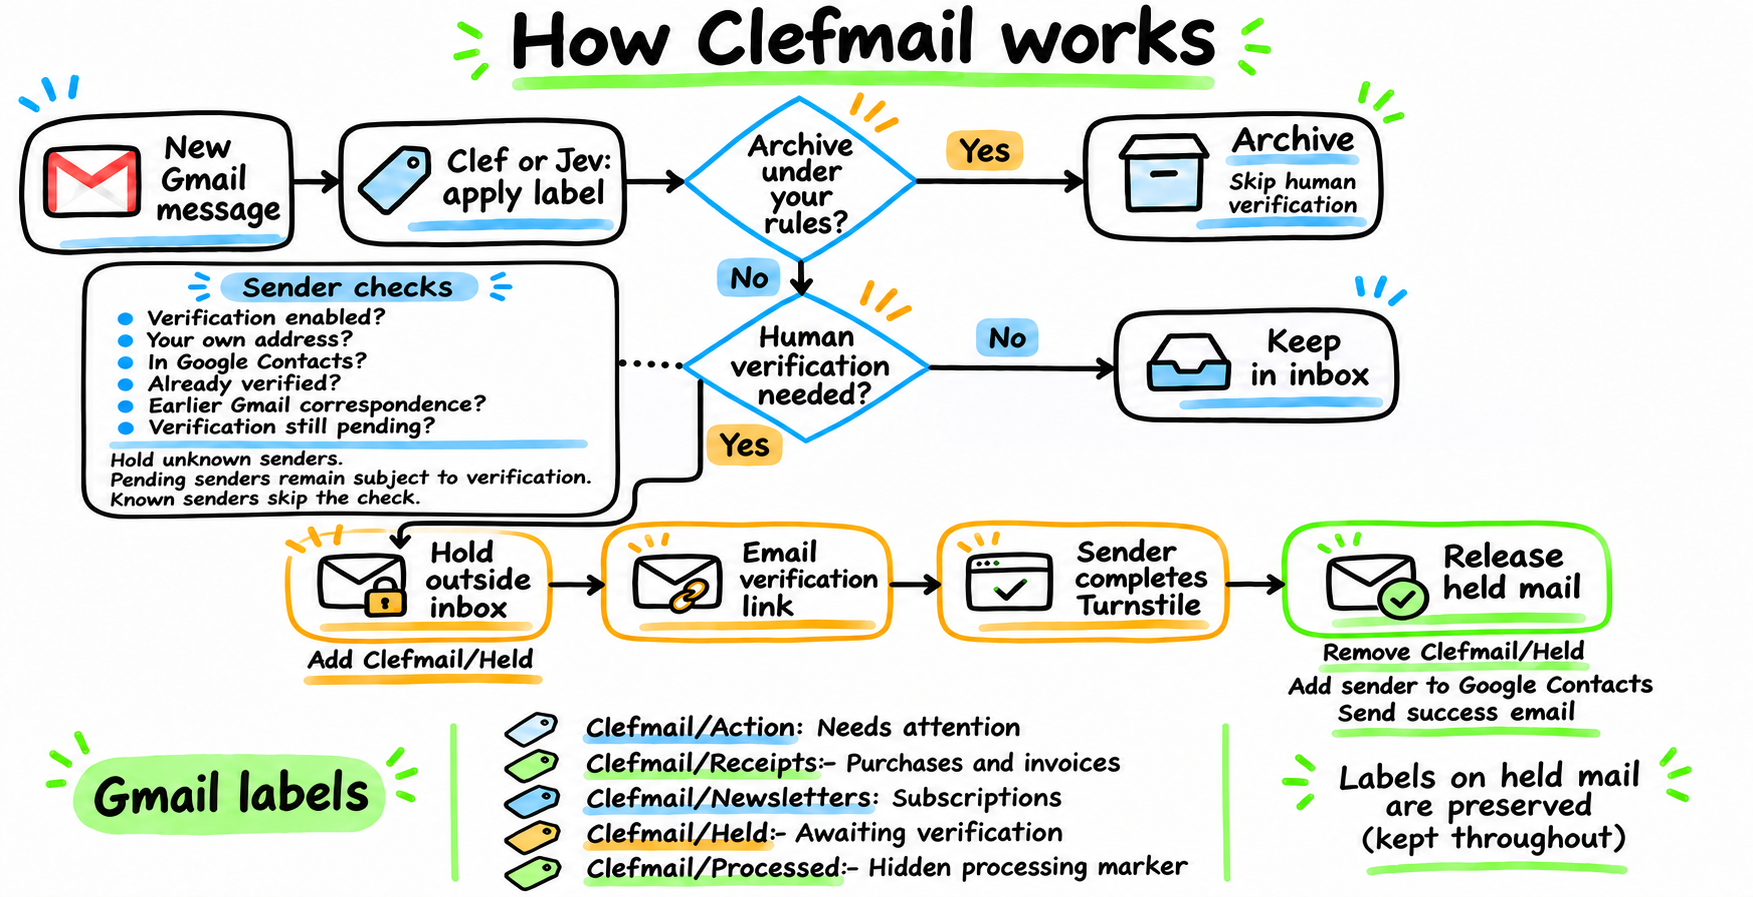
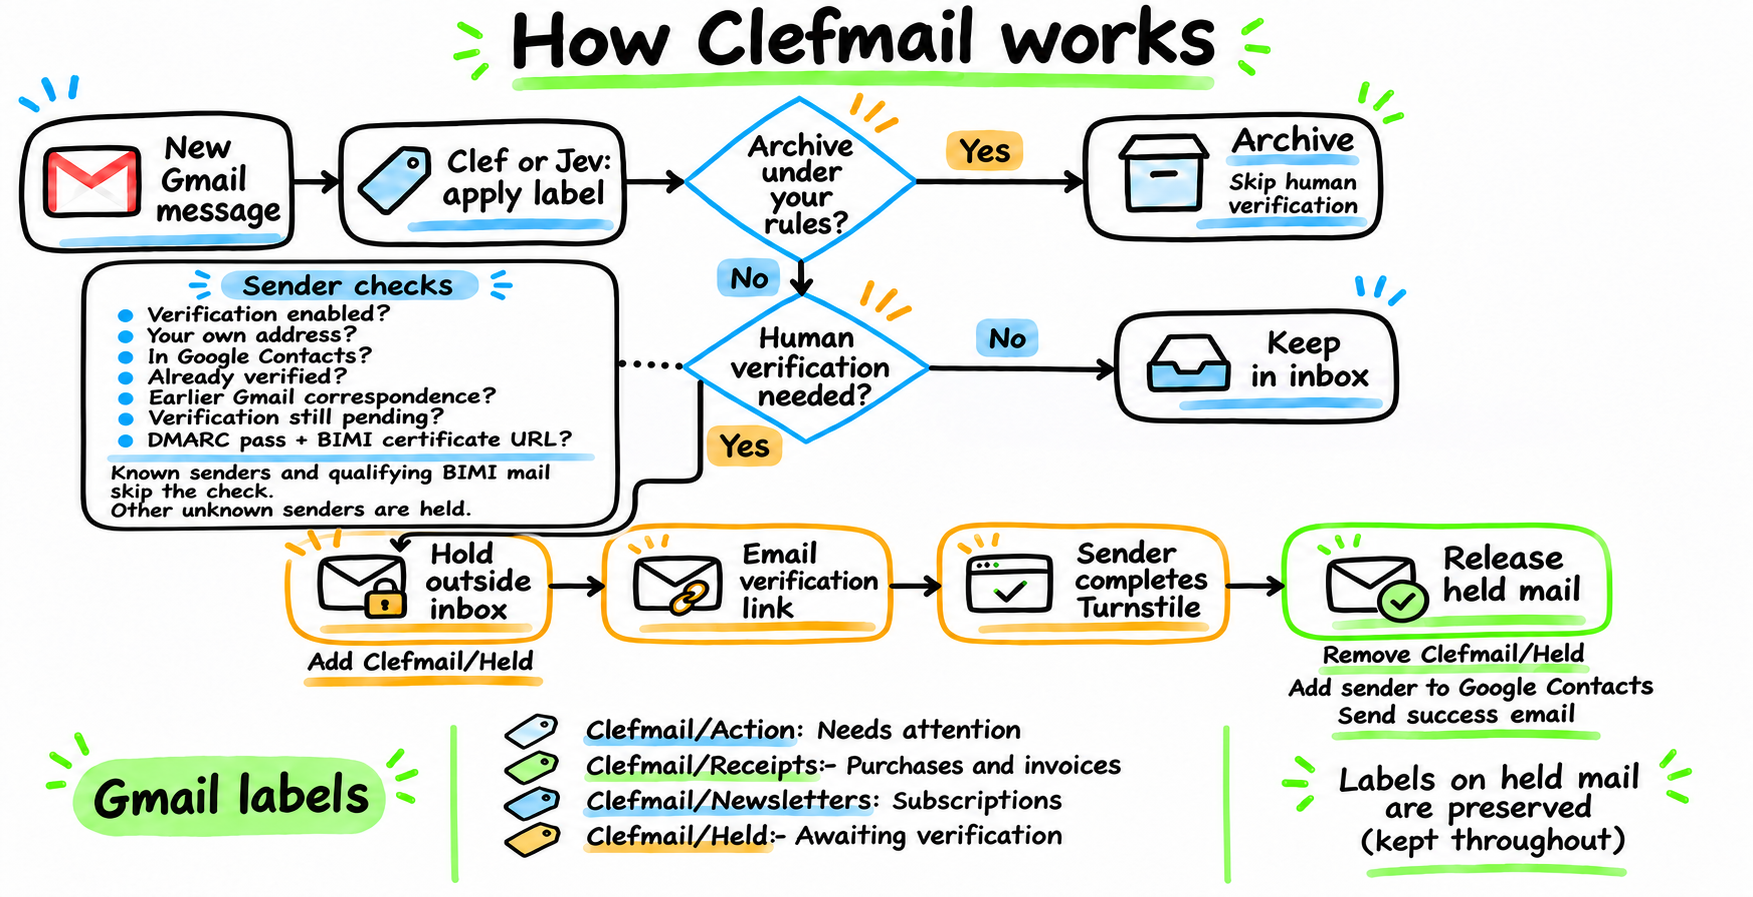
Track processed messages privately instead of using a Gmail label

diff --git a/tests/processor.test.ts b/tests/processor.test.ts
@@ -21,7 +21,7 @@ test("notification processes added IDs, labels + archives once, then checkpoints
   const f = fixture();
   await f.processor.notification(account, "200");
   expect(f.gmail.historyCalls).toEqual([["100", undefined]]);
-  expect(f.gmail.modifications).toEqual([{ id: "a1", add: ["Label_done", "Label_receipts"], remove: ["INBOX"] }]);
+  expect(f.gmail.modifications).toEqual([{ id: "a1", add: ["Label_receipts"], remove: ["INBOX"] }]);
   expect(f.state.snapshot!.data.historyId).toBe("200");
   expect(f.state.snapshot!.data.lease).toBeUndefined();
   await f.processor.notification(account, "200");
@@ -83,10 +83,11 @@ test("a malformed label response becomes a processed abstention, never an archiv
   const f = fixture();
   f.deps.classify = async () => { throw new SafeError("invalid_label_answer"); };
   await f.processor.notification(account, "200");
-  expect(f.gmail.modifications).toEqual([{ id: "a1", add: ["Label_done"], remove: [] }]);
+  expect(f.gmail.modifications).toEqual([]);
+  expect(await f.state.isProcessed(account.id, "a1")).toBe(true);
 });
 
-test("unknown mutation outcome is reconciled by processing marker on retry", async () => {
+test("unknown mutation outcome retries safely before private completion is recorded", async () => {
   const f = fixture();
   const modify = f.gmail.modify.bind(f.gmail);
   let fail = true;
@@ -97,8 +98,8 @@ test("unknown mutation outcome is reconciled by processing marker on retry", asy
   await expect(f.processor.notification(account, "200")).rejects.toThrow();
   expect(f.state.snapshot!.data.historyId).toBe("100");
   await f.processor.notification(account, "200");
-  expect(f.count()).toBe(1);
-  expect(f.gmail.modifications.length).toBe(1);
+  expect(f.count()).toBe(2);
+  expect(f.gmail.modifications.length).toBe(2);
   expect(f.state.snapshot!.data.historyId).toBe("200");
 });
 
@@ -197,7 +198,7 @@ test("oversized message falls back to label-only header metadata instead of bloc
     return original(id, format);
   };
   await f.processor.notification(account, "200");
-  expect(f.gmail.modifications).toEqual([{ id: "a1", add: ["Label_done", "Label_receipts"], remove: [] }]);
+  expect(f.gmail.modifications).toEqual([{ id: "a1", add: ["Label_receipts"], remove: [] }]);
   expect(f.state.snapshot!.data.historyId).toBe("200");
 });
 
@@ -205,5 +206,37 @@ test("oversized classifier request is a terminal abstention, not a mailbox-block
   const f = fixture();
   f.deps.classify = async () => { throw new SafeError("ai_request_limit"); };
   await f.processor.notification(account, "200");
-  expect(f.gmail.modifications).toEqual([{ id: "a1", add: ["Label_done"], remove: [] }]);
+  expect(f.gmail.modifications).toEqual([]);
+  expect(await f.state.isProcessed(account.id, "a1")).toBe(true);
+});
+
+test("private completion survives history replay without a visible processing label", async () => {
+  const f = fixture();
+  await f.processor.notification(account, "200");
+  expect(await f.state.isProcessed(account.id, "a1")).toBe(true);
+  expect(f.gmail.messages.get("a1")!.labelIds).not.toContain("Label_done");
+  f.gmail.pages = [{ historyId: "250", history: [{ id: "220", messagesAdded: [{ message: { id: "a1" } }] }] }];
+  await f.processor.notification(account, "250");
+  expect(f.count()).toBe(1);
+});
+
+test("legacy processed labels migrate into private completion without inference", async () => {
+  const f = fixture();
+  f.gmail.messages.get("a1")!.labelIds!.push("Label_done");
+  await f.processor.notification(account, "200");
+  expect(f.count()).toBe(0);
+  expect(await f.state.isProcessed(account.id, "a1")).toBe(true);
+});
+
+test("private marker failures preserve the history cursor for retry", async () => {
+  const f = fixture();
+  const mark = f.state.markProcessed.bind(f.state);
+  f.state.markProcessed = async () => { throw new SafeError("storage_unavailable"); };
+  await expect(f.processor.notification(account, "200")).rejects.toThrow("storage_unavailable");
+  expect(f.state.snapshot!.data.historyId).toBe("100");
+  f.state.markProcessed = mark;
+  await f.processor.notification(account, "200");
+  expect(await f.state.isProcessed(account.id, "a1")).toBe(true);
+  expect(f.state.snapshot!.data.historyId).toBe("200");
+  expect(f.gmail.messages.get("a1")!.labelIds).not.toContain("INBOX");
 });

diff --git a/src/processor.ts b/src/processor.ts
@@ -45,12 +45,13 @@ export class Processor {
     const verify = account.humanVerification || isVerificationTest(account, message);
     const resume = verify &&
       await this.deps.verification?.needsResume(account, message);
-    if (message.labelIds?.includes(labels.processed) && !resume) return;
+    const processed = message.labelIds?.includes(labels.processed) || await this.deps.state.isProcessed(account.id, id);
+    if (processed && !resume) return;
     if (verify && !this.deps.verification) throw new SafeError("verification_not_configured");
     if (resume) {
       if (!this.deps.verification) throw new SafeError("verification_not_configured");
       if (await this.deps.verification.quarantine(account, message, gmail, labels, session)) return;
-      if (message.labelIds?.includes(labels.processed)) return;
+      if (processed) return;
     }
     const email = await extract(message, attachmentId => gmail.attachment(id, attachmentId));
     if (headerOnly) Object.assign(email, { body: "", bodyUnavailable: true, truncated: true });
@@ -86,9 +87,7 @@ export class Processor {
       !!(account.humanVerification && await this.deps.verification?.trusted(account, sender));
     const block = protectedSender ? "protected_sender" : archiveBlock(decision, account, current.labelIds || []);
     const checkSender = verify && block !== null && !!current.labelIds?.includes("INBOX");
-    // Leave completion unmarked until the sender check succeeds. A retry can
-    // repeat classification safely if it failed before quarantine was journaled.
-    const add = checkSender ? [] : [labels.processed];
+    const add: string[] = [];
     if (decision.label) {
       const selected = labels.options[decision.label];
       if (!selected) throw new SafeError("unmapped_label");
@@ -100,8 +99,7 @@ export class Processor {
     if (add.length || block === null) await gmail.modify(id, add, block === null ? ["INBOX"] : []);
     if (checkSender) {
       if (await this.deps.verification!.quarantine(account, message, gmail, labels, session)) return;
-      await session.assertOwned();
-      await gmail.modify(id, [labels.processed], []);
+
     }
     this.log("message_processed", {
       account: account.id, message: id, label: decision.label,
@@ -140,6 +138,8 @@ export class Processor {
           for (const id of new Set((record.messagesAdded || []).map(m => m.message.id))) {
             try {
               await this.processMessage(account, id, gmail, labels, session, signal);
+              await session.assertOwned();
+              await this.deps.state.markProcessed(account.id, id);
             } catch (error) {
               if (!(error instanceof HttpError) || error.service !== "gmail" || error.status !== 404)
                 throw error;

diff --git a/tests/verification.test.ts b/tests/verification.test.ts
@@ -65,7 +65,7 @@ test("AI-archived mail skips sender verification entirely", async () => {
   await f.processor.notification({ ...protectedAccount, archiveEnabled: true }, "200");
   expect(f.classified()).toBe(1);
   expect(f.gmail.messages.get("a1")!.labelIds).toContain("Label_receipts");
-  expect(f.gmail.messages.get("a1")!.labelIds).toContain("Label_done");
+  expect(f.gmail.messages.get("a1")!.labelIds).not.toContain("Label_done");
   expect(f.gmail.messages.get("a1")!.labelIds).not.toContain("INBOX");
   expect(f.gmail.messages.get("a1")!.labelIds).not.toContain("Label_held");
   expect(f.gmail.notices).toHaveLength(0);
@@ -110,7 +110,7 @@ test("mail already outside the inbox is labeled without a sender challenge", asy
   f.gmail.messages.set("a1", message("a1", []));
   await f.processor.notification(protectedAccount, "200");
   expect(f.gmail.messages.get("a1")!.labelIds).toContain("Label_receipts");
-  expect(f.gmail.messages.get("a1")!.labelIds).toContain("Label_done");
+  expect(f.gmail.messages.get("a1")!.labelIds).not.toContain("Label_done");
   expect(f.gmail.notices).toHaveLength(0);
   expect(f.senders.values.size).toBe(0);
 });
@@ -167,7 +167,7 @@ test("failed challenge send retries despite processed marker and preserves pendi
   const send = f.gmail.sendNotice.bind(f.gmail);
   f.gmail.sendNotice = async () => { throw new SafeError("send_failed"); };
   await expect(f.processor.notification(protectedAccount, "200")).rejects.toThrow("send_failed");
-  expect(f.gmail.messages.get("a1")!.labelIds).toContain("Label_done");
+  expect(f.gmail.messages.get("a1")!.labelIds).not.toContain("Label_done");
   expect((await f.record()).challenged).toBe(false);
   f.gmail.sendNotice = send;
   await f.processor.notification(protectedAccount, "200");
@@ -377,7 +377,7 @@ test("BIMI exemption keeps category without creating contact, challenge or sende
   await f.processor.notification(protectedAccount, "200");
   expect(f.gmail.messages.get("a1")!.labelIds).toContain("INBOX");
   expect(f.gmail.messages.get("a1")!.labelIds).toContain("Label_receipts");
-  expect(f.gmail.messages.get("a1")!.labelIds).toContain("Label_done");
+  expect(f.gmail.messages.get("a1")!.labelIds).not.toContain("Label_done");
   expect(f.gmail.notices).toHaveLength(0);
   expect(f.gmail.contacts.size).toBe(0);
   expect(f.senders.values.size).toBe(0);

diff --git a/src/state.ts b/src/state.ts
@@ -12,6 +12,8 @@ const stateSchema = z.object({
 export type State = z.infer<typeof stateSchema>;
 export interface Snapshot { data: State; generation: string }
 export interface StateStore {
+  isProcessed(accountId: string, messageId: string): Promise<boolean>;
+  markProcessed(accountId: string, messageId: string): Promise<void>;
   read(accountId: string): Promise<Snapshot | null>;
   write(accountId: string, state: State, generation: string): Promise<void>;
 }
@@ -21,6 +23,26 @@ export class GcsStateStore implements StateStore {
     retryOptions: { maxRetries: 2, totalTimeout: 10, maxRetryDelay: 1 },
   });
   constructor(private bucket: string) {}
+
+  private processedFile(accountId: string, messageId: string) {
+    if (!/^[a-z][a-z0-9_-]{0,49}$/.test(accountId) || !/^[a-zA-Z0-9_-]{1,200}$/.test(messageId))
+      throw new SafeError("invalid_processed_key");
+    return this.storage.bucket(this.bucket).file(`processed/${accountId}/${messageId}.json`);
+  }
+
+  async isProcessed(accountId: string, messageId: string): Promise<boolean> {
+    const [exists] = await this.processedFile(accountId, messageId).exists();
+    return exists;
+  }
+
+  async markProcessed(accountId: string, messageId: string): Promise<void> {
+    try {
+      await this.processedFile(accountId, messageId).save("{}", {
+        resumable: false, validation: "crc32c", preconditionOpts: { ifGenerationMatch: 0 },
+        metadata: { contentType: "application/json", cacheControl: "no-store" },
+      });
+    } catch (error: any) { if (error?.code !== 412) throw error; }
+  }
 
   private file(accountId: string, generation?: string) {
     if (!/^[a-z][a-z0-9_-]{0,49}$/.test(accountId)) throw new SafeError("invalid_account_id");

diff --git a/tests/adapters.test.ts b/tests/adapters.test.ts
@@ -104,8 +104,8 @@ test("runtime label lookup never creates missing labels; explicit setup does", a
     }));
   await expect(client.labels(account)).rejects.toThrow("gmail_label_missing_run_setup");
   expect(created).toBe(0);
-  expect(await client.labels(account, true)).toEqual({ processed: "Label_1", held: "Label_3", options: { receipts: "Label_2" } });
-  expect(created).toBe(3);
+  expect(await client.labels(account, true)).toEqual({ processed: "", held: "Label_2", options: { receipts: "Label_1" } });
+  expect(created).toBe(2);
 });
 
 test("label creation reads back missing type and rejects a system label", async () => {
@@ -126,7 +126,7 @@ test("label creation reads back missing type and rejects a system label", async 
         throw new Error("Unexpected request");
       }));
     if (type === "user") {
-      expect(await client.labels(account, true)).toEqual({ processed: "Label_1", held: "Label_3", options: { receipts: "Label_2" } });
+      expect(await client.labels(account, true)).toEqual({ processed: "", held: "Label_2", options: { receipts: "Label_1" } });
     } else {
       await expect(client.labels(account, true)).rejects.toThrow("system_label_not_allowed");
     }

diff --git a/src/gmail.ts b/src/gmail.ts
@@ -161,7 +161,10 @@ export class Gmail implements GmailPort {
       result.labels.push(created);
       return created.id;
     };
-    const processed = await find(PROCESSED_LABEL, true);
+    // Recognize the old marker during migration, but never create it.
+    const legacy = result.labels.find(l => l.name === PROCESSED_LABEL);
+    if (legacy && legacy.type !== "user") throw new SafeError("system_label_not_allowed");
+    const processed = legacy?.id || "";
     const options: Record<string, string> = {};
     for (const label of account.labels) options[label.id] = await find(label.name);
     const held = await find(HELD_LABEL);

diff --git a/tests/helpers.ts b/tests/helpers.ts
@@ -34,6 +34,9 @@ export const message = (id = "a1", labels = ["INBOX"]): Message => ({
 });
 
 export class MemoryState implements StateStore {
+  processed = new Set<string>();
+  async isProcessed(account: string, id: string) { return this.processed.has(`${account}/${id}`); }
+  async markProcessed(account: string, id: string) { this.processed.add(`${account}/${id}`); }
   snapshot: Snapshot | null;
   writes: State[] = [];
   constructor(cursor: string | null = "100") {

diff --git a/src/verification.ts b/src/verification.ts
@@ -151,7 +151,7 @@ export class Verification {
       return false;
     }
     await session.assertOwned();
-    await gmail.modify(message.id!, [labels.processed, labels.held], ["INBOX"]);
+    await gmail.modify(message.id!, [labels.held], ["INBOX"]);
     if (!record.challenged && mayChallenge(message, sender)) {
       const link = `${this.deps.publicUrl.replace(/\/$/, "")}/verify#${account.id}/${key}/${record.token}`;
       await session.assertOwned();

diff --git a/README.md b/README.md
@@ -24,9 +24,8 @@ The example configuration includes three category labels. You can rename these o
 | `Clefmail/Receipts` | A purchase confirmation, invoice or transaction record |
 | `Clefmail/Newsletters` | A subscription or informational newsletter |
 | `Clefmail/Held` | The message is waiting for its sender to complete human verification; removed when the message is released |
-| `Clefmail/Processed` | Hidden marker used to track handled messages and prevent repeated classification; remains after release from a hold |
 
-A classified message receives at most one configured category label. When the model is uncertain, Clefmail applies only `Clefmail/Processed` and keeps the message's inbox status. Held messages retain their category label and receive both `Clefmail/Held` and `Clefmail/Processed`. They have already been classified and keep their labels when released.
+A classified message receives at most one configured category label. When the model is uncertain, Clefmail keeps the message's labels and inbox status. Held messages retain their category label and receive `Clefmail/Held`. They have already been classified and keep their labels when released. Clefmail records completed processing in its private Cloud Storage bucket, so tracking adds no label to your mail.
 
 ### Human verification
 
@@ -156,7 +155,7 @@ export GMAIL_PERSONAL_REFRESH_TOKEN="$(<.secrets/personal.token)"
 bun run setup
 ```
 
-`setup` verifies the mailbox and creates the configured category labels, `Clefmail/Held`, and the hidden `Clefmail/Processed` label. **It does not read message bodies, classify messages, or start a watch.** The runtime only looks up labels; rerun setup if you deliberately change the label configuration.
+`setup` verifies the mailbox and creates the configured category labels and `Clefmail/Held`. **It does not read message bodies, classify messages, or start a watch.** The runtime only looks up labels; rerun setup if you deliberately change the label configuration.
 
 Bun loads `.env` automatically for local tools; Bash and `gcloud` do not. The exported token above takes precedence over the placeholder in `.env`. Do not use shell tracing (`set -x`) while handling credentials.
 
@@ -283,10 +282,10 @@ Disable processing and revoke Gmail grants first. Then remove the dedicated Sche
 
 ## Safety, privacy and deliberate limits
 
-- **Message-level only:** classification adds a category plus `Clefmail/Processed` and may remove `INBOX`. Optional verification sends challenge/confirmation emails, creates contacts, and restores only messages recorded as having been in the inbox before quarantine. It never deletes, trashes, marks read, or modifies a whole thread. Unread status and unrelated labels are preserved.
-- **AI archive guardrails:** contacts, the mailbox's own address, and ambiguous/missing senders are protected. Contacts API failures retry instead of permitting an archive. A usable, untruncated plain-text body and valid confident category are required. Freshly checked starred, important, Spam, Trash and draft messages cannot be archived. Header-only classification requires at least 0.90 probability and cannot archive. Invalid archive output means label-only; invalid/abstaining category decisions receive only the processing marker. Opt-in human-verification quarantine is independent of these AI thresholds and starred/important protection; Spam, Trash and drafts remain excluded.
+- **Message-level only:** classification adds a category and may remove `INBOX`. Optional verification sends challenge/confirmation emails, creates contacts, and restores only messages recorded as having been in the inbox before quarantine. It never deletes, trashes, marks read, or modifies a whole thread. Unread status and unrelated labels are preserved.
+- **AI archive guardrails:** contacts, the mailbox's own address, and ambiguous/missing senders are protected. Contacts API failures retry instead of permitting an archive. A usable, untruncated plain-text body and valid confident category are required. Freshly checked starred, important, Spam, Trash and draft messages cannot be archived. Header-only classification requires at least 0.90 probability and cannot archive. Invalid archive output means label-only; invalid/abstaining category decisions are recorded privately. Opt-in human-verification quarantine is independent of these AI thresholds and starred/important protection; Spam, Trash and drafts remain excluded.
 - **Text only:** no attachments, HTML conversion, external images, linked-page fetching or conversation history. Email text exists in request memory and goes to the selected provider. Logs contain opaque message/account IDs and outcome codes, not subjects or bodies.
-- **Persistent state:** Secret Manager holds credentials/configuration, Pub/Sub holds mailbox/history metadata, Storage holds cursors/watch expiry/leases and optional sender records (email address, secret verification capability, pending message IDs and completion state), and Gmail holds processing markers. Treat the private bucket as sensitive mailbox data; there is no automatic sender-record expiration or deletion.
+- **Persistent state:** Secret Manager holds credentials/configuration, Pub/Sub holds mailbox/history metadata, Storage holds cursors/watch expiry/leases and optional sender records (email address, secret verification capability, pending message IDs and completion state), and private per-message completion records prevent repeated processing. Treat the private bucket as sensitive mailbox data; there is no automatic sender-record expiration or deletion.
 - **At-least-once, not exactly-once:** crashes can repeat inference and its cost. Processing markers usually prevent repeated completed work. Verification also journals pending messages and completion stages; deterministic Message-IDs and Sent searches reduce duplicate notices, but Gmail send/contact creation is not transactional and ambiguous failures can still duplicate external effects. Removing those markers can permit reprocessing if history is replayed.
 - **No historical recovery:** an expired history cursor is reset to the current baseline; missed mail is not recovered. A failed message can delay subsequent history until retry; notifications can eventually dead-letter. No automatic dead-letter replay, inbox scan, reconciliation job or backfill is provided.
 - **Concurrent edits:** Gmail offers no conditional label transaction. A small race with your manual Gmail changes remains unavoidable.
